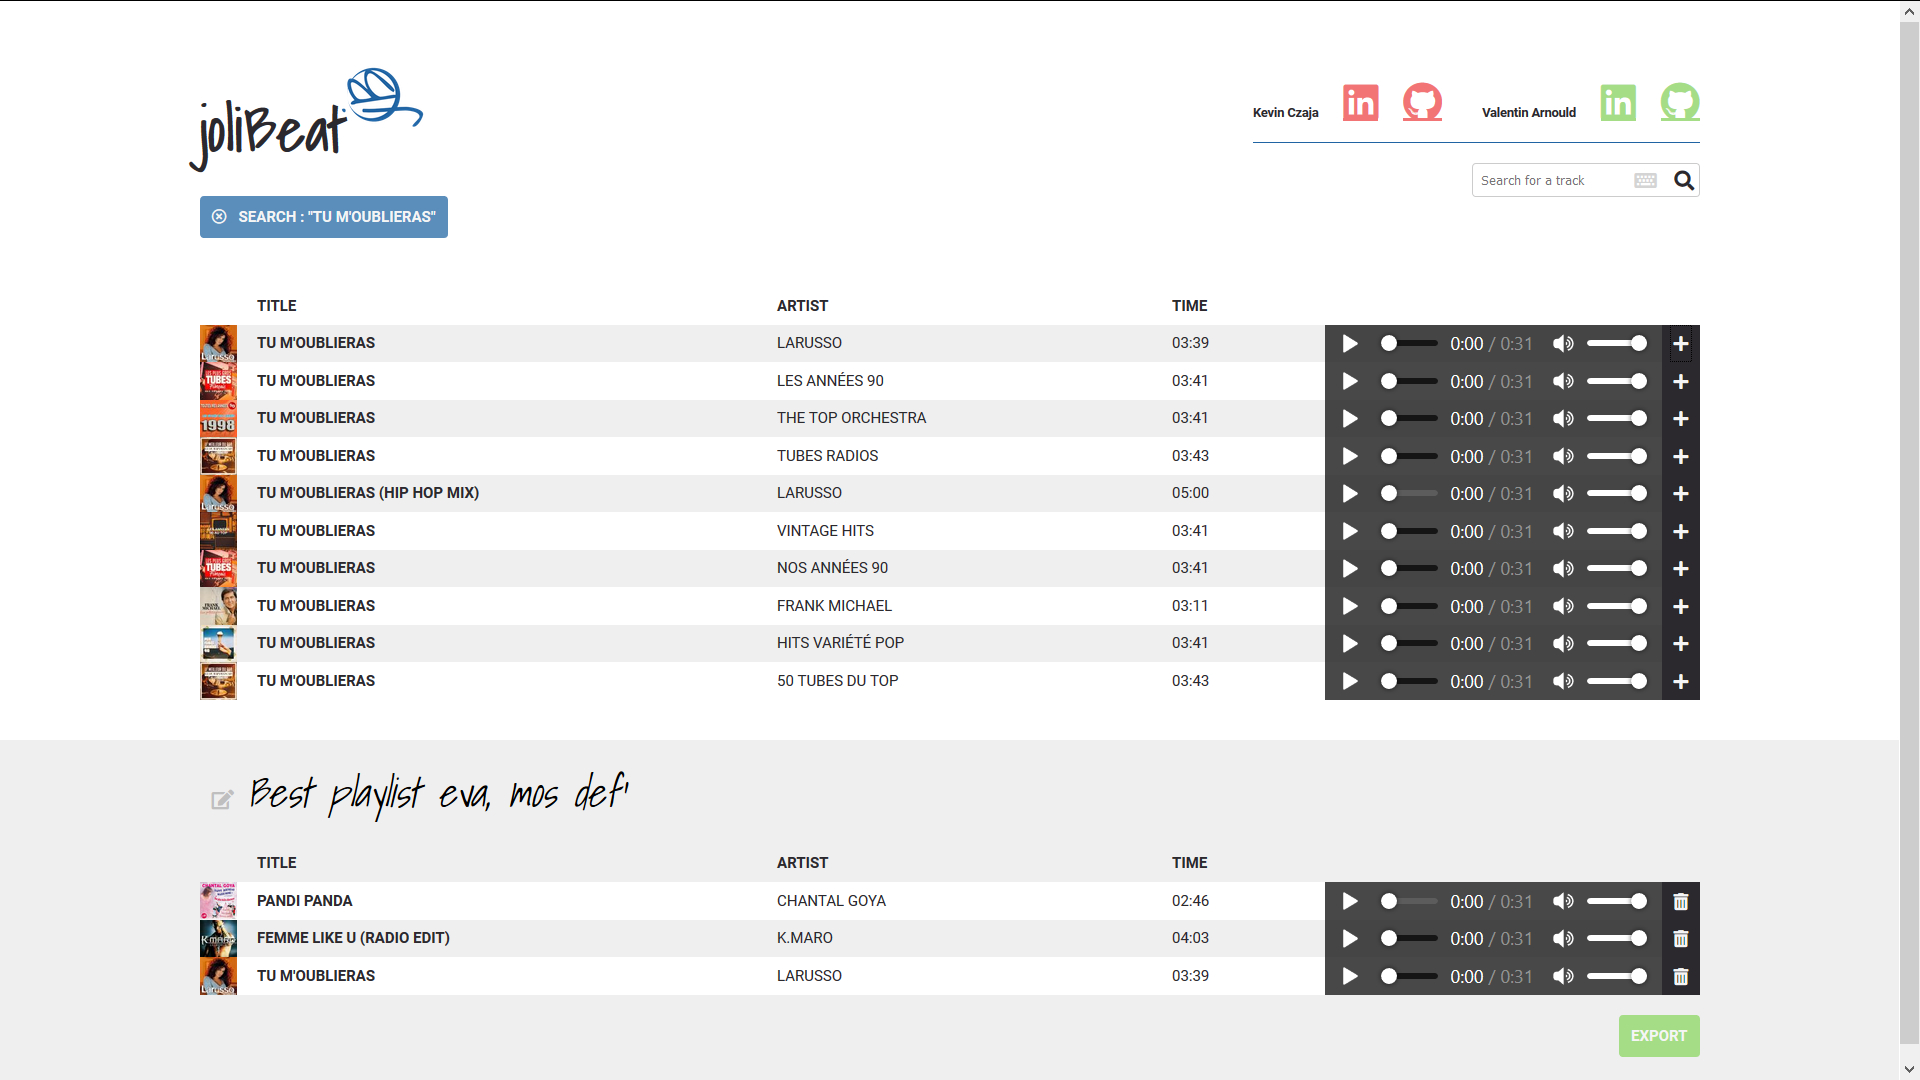
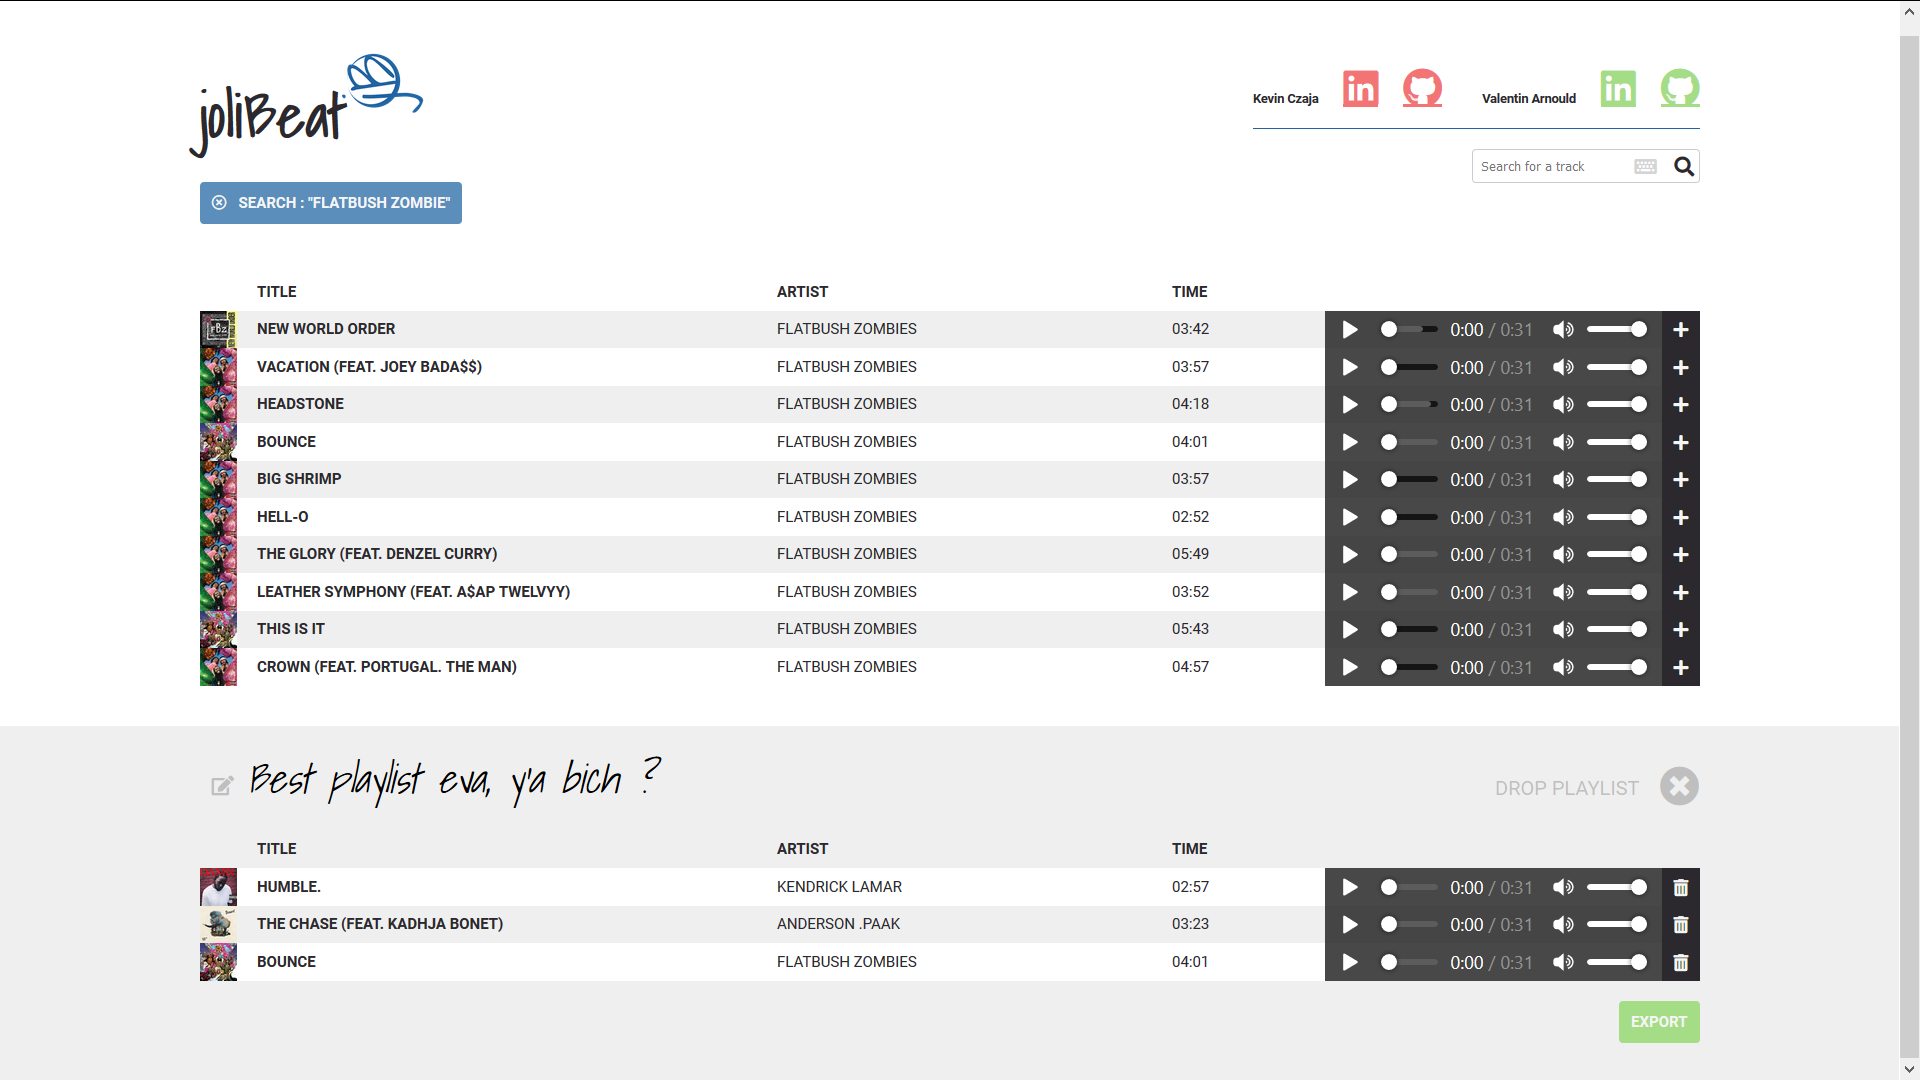
Now possible to drop a playlist

diff --git a/main.js b/main.js
@@ -84,7 +84,7 @@ const digit = function countDigit(number) {
 const addToPlaylist = function addTrackToThePlaylist(trackId) {
     //debugger;
     if(document.querySelector('.playlist').innerHTML.length == 0) {
-        let html = `<div class="playlist-content"><span class="playlist-title" onclick="editTitle();">${playlistDefaultTitle}</span>
+        let html = `<div class="playlist-content"><span class="playlist-title" onclick="editTitle();">${playlistDefaultTitle}</span><span class="delete-playlist" onclick="dropPlaylist();"><span class="delete-playlist--text">Drop playlist</span><i class="fas fa-times-circle fa-2x"></i></span>
         <ul class="musicList"></ul><a href="#" class="export">Export</a></div>`;
         document.querySelector('.playlist').innerHTML = html;
         trackListHeader = '<li class="search-header"><div class="track-cover"></div><span class="track-title">TITLE</span><span class="track-artist">ARTIST</span><span class="track-duration">TIME</span></li>';
@@ -126,6 +126,33 @@ const editTitle = function editPlaylistTitle() {
         document.querySelector('.playlist-title').innerHTML = (value !== "")? `<i class="fas fa-edit"></i>${value}` : playlistDefaultTitle;
 
       });
+}
+
+// Delete the current playlist
+const dropPlaylist = function deleteCurrentPlaylist() {
+    swal("You sure you want to drop this playlist ?", {
+        buttons: {
+          no: {
+              text: "Hell no !",
+              className: "cancel",
+              value: false
+            },
+          confirm: {
+            text: "For sure.",
+            className: "accept",
+            value: true
+          }
+      }}).then((value) => {
+          switch(value) {
+              case false:
+                break;
+
+              case true:
+                document.querySelector('.playlist').innerHTML = "";
+                break;
+
+          }
+      });   
 }
 
 const playThisMusic = function PlayTrackFromPlaylist(track) {

diff --git a/main.css b/main.css
@@ -250,6 +250,29 @@ nav {
         padding-bottom: 4rem;
     }
 
+    .delete-playlist {
+        float: right;
+        padding-top: 1rem;
+        color: rgba(0,0,0,.2);
+    }
+
+        .delete-playlist--text {
+            height: 2em;
+            display: inline-block;
+            text-transform: uppercase;
+            vertical-align: middle;
+            padding-right: 1rem;
+        }
+
+        .delete-playlist:hover {
+            cursor: pointer;
+        }
+
+            .delete-playlist:hover i {
+                color: rgba(0,0,0,.3);
+                
+            }
+
 .accept {
     background-color: #a5dc86;
 }
@@ -284,18 +307,22 @@ nav {
         font-weight: 700;
     }
 
-    .export {
-        font-size: 12px;
-        text-transform: uppercase;
-        text-decoration: none;
-        font-weight: 700;
-        color: whitesmoke;
-        background-color: #a5dc86;
-        padding: .6rem;
-        border-radius: 3px;
-        float: right;
-    }
-
-        .export:hover {
-            background-color: #88b56e;
+        .playlist-title:hover > i {
+            color: rgba(0,0,0,.3);
         }
+
+.export {
+    font-size: 12px;
+    text-transform: uppercase;
+    text-decoration: none;
+    font-weight: 700;
+    color: whitesmoke;
+    background-color: #a5dc86;
+    padding: .6rem;
+    border-radius: 3px;
+    float: right;
+}
+
+    .export:hover {
+        background-color: #88b56e;
+    }
